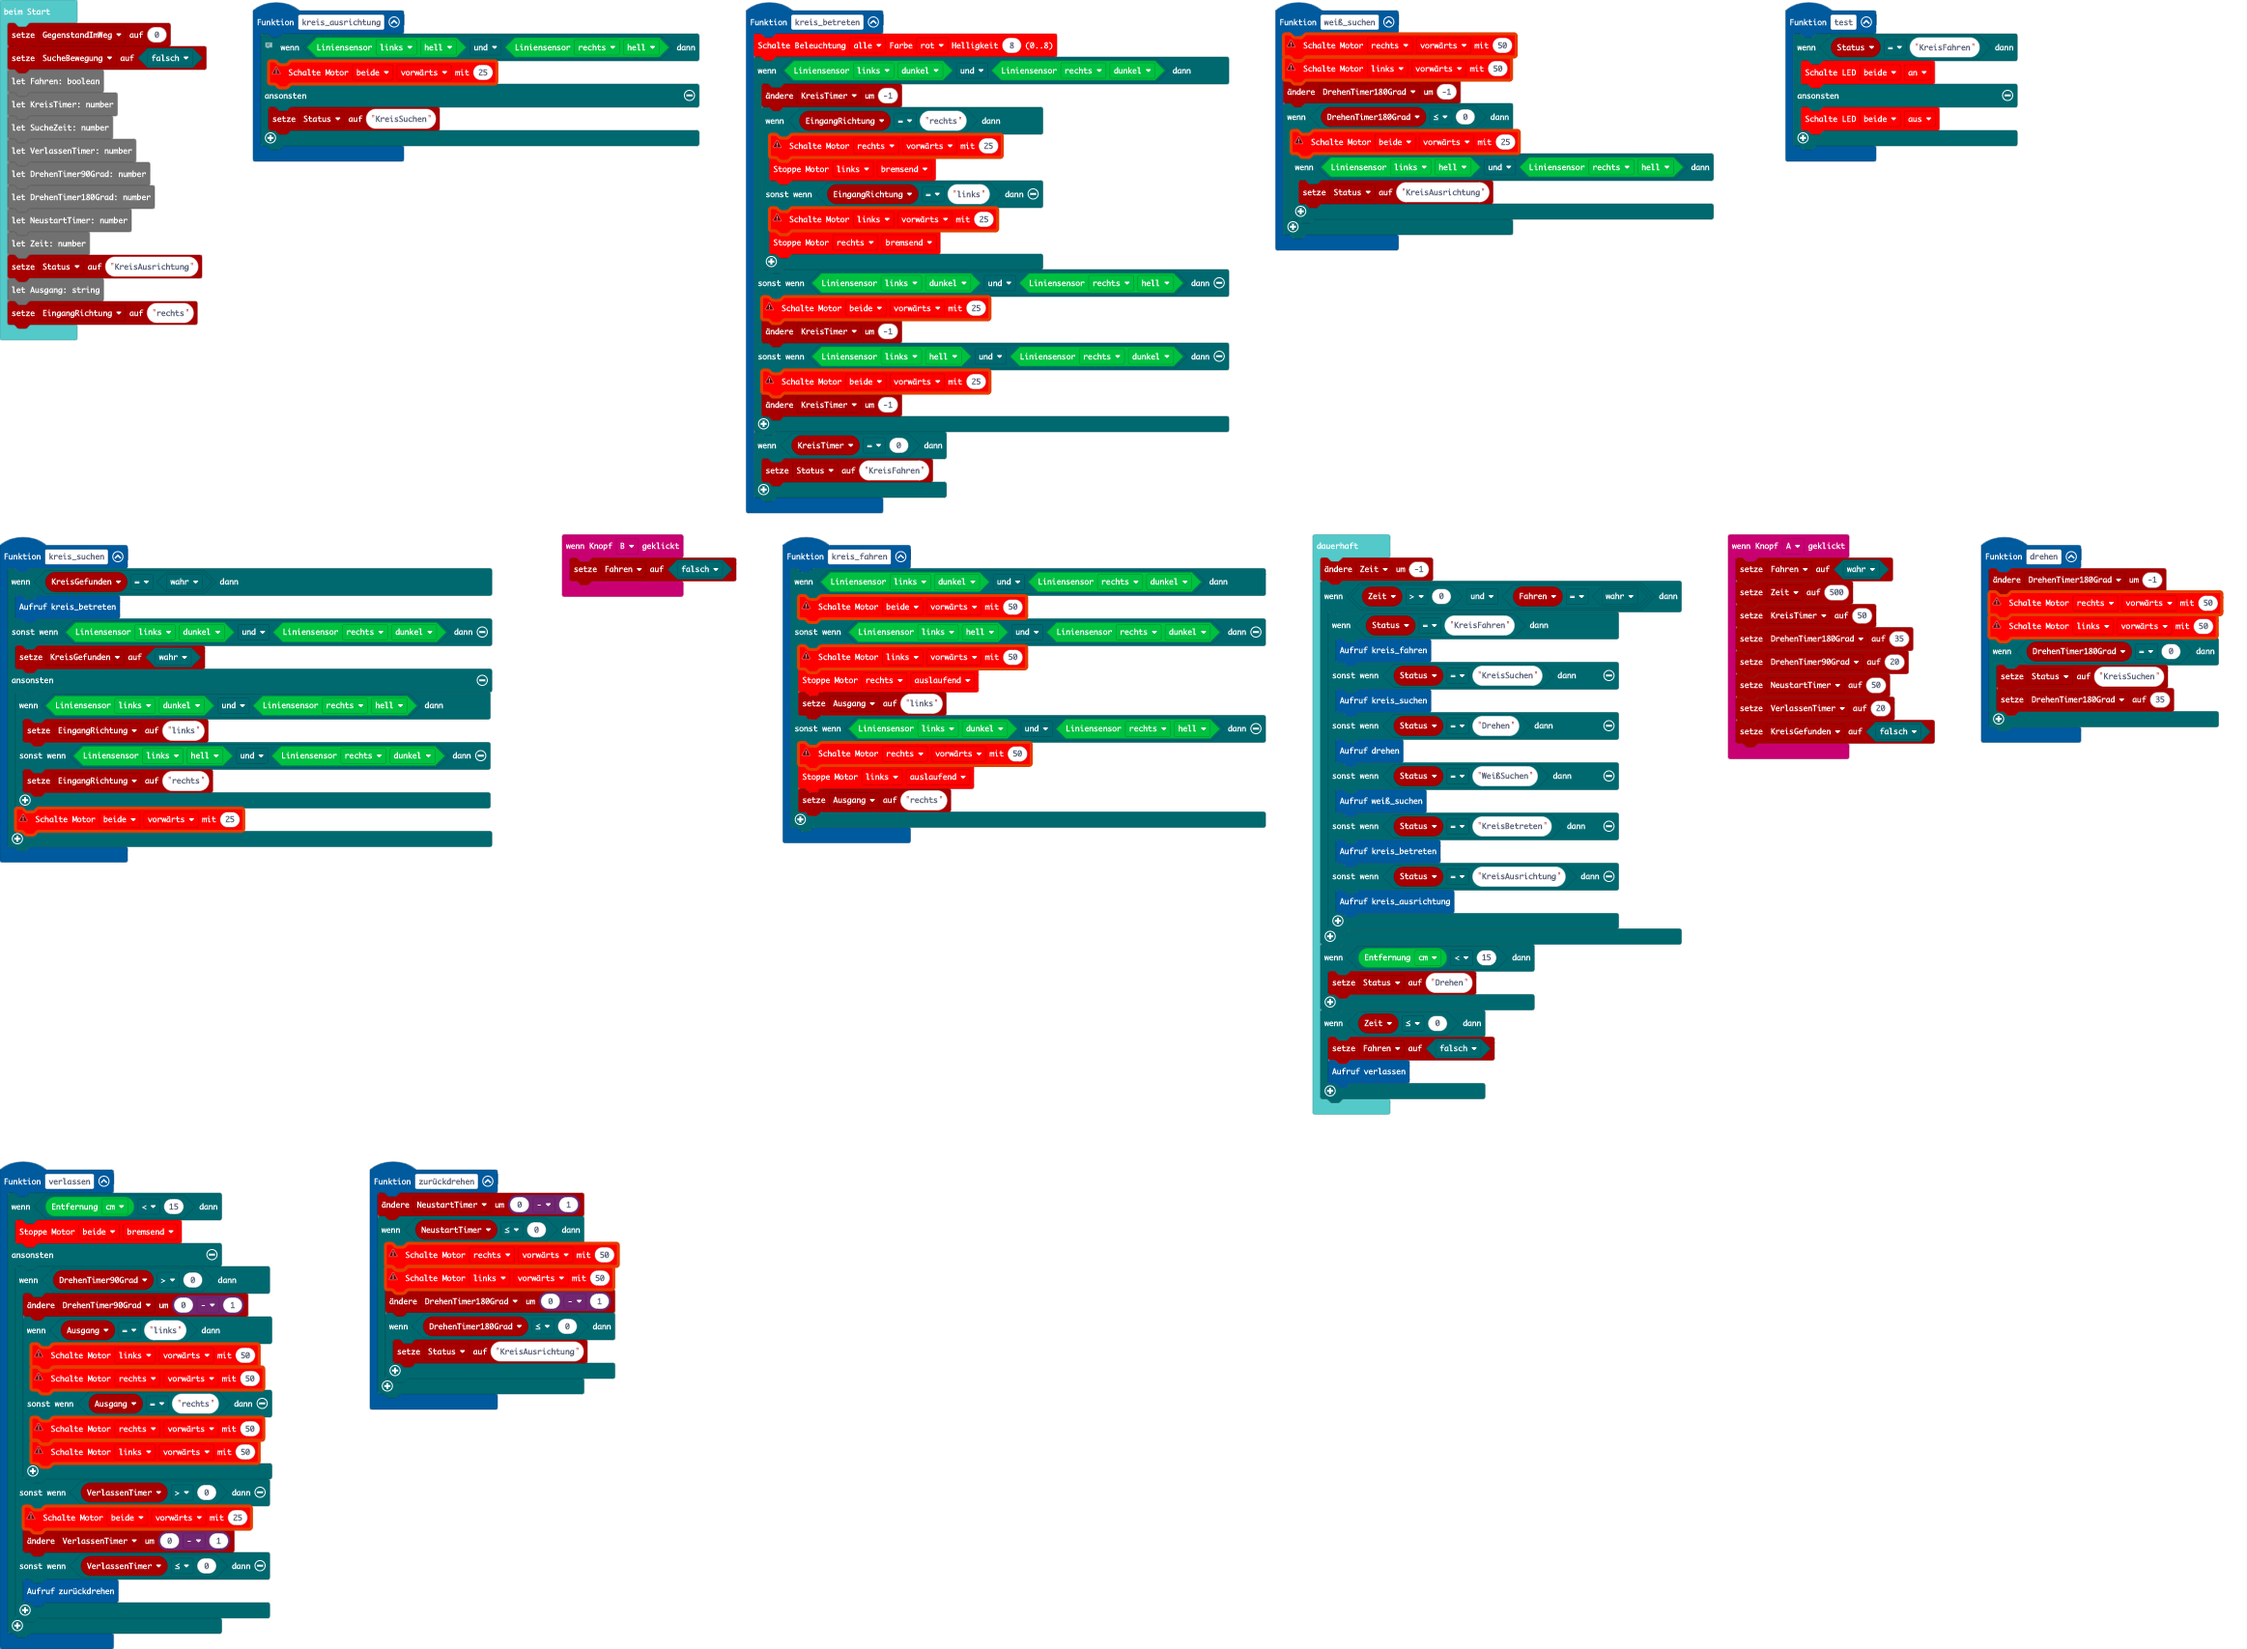
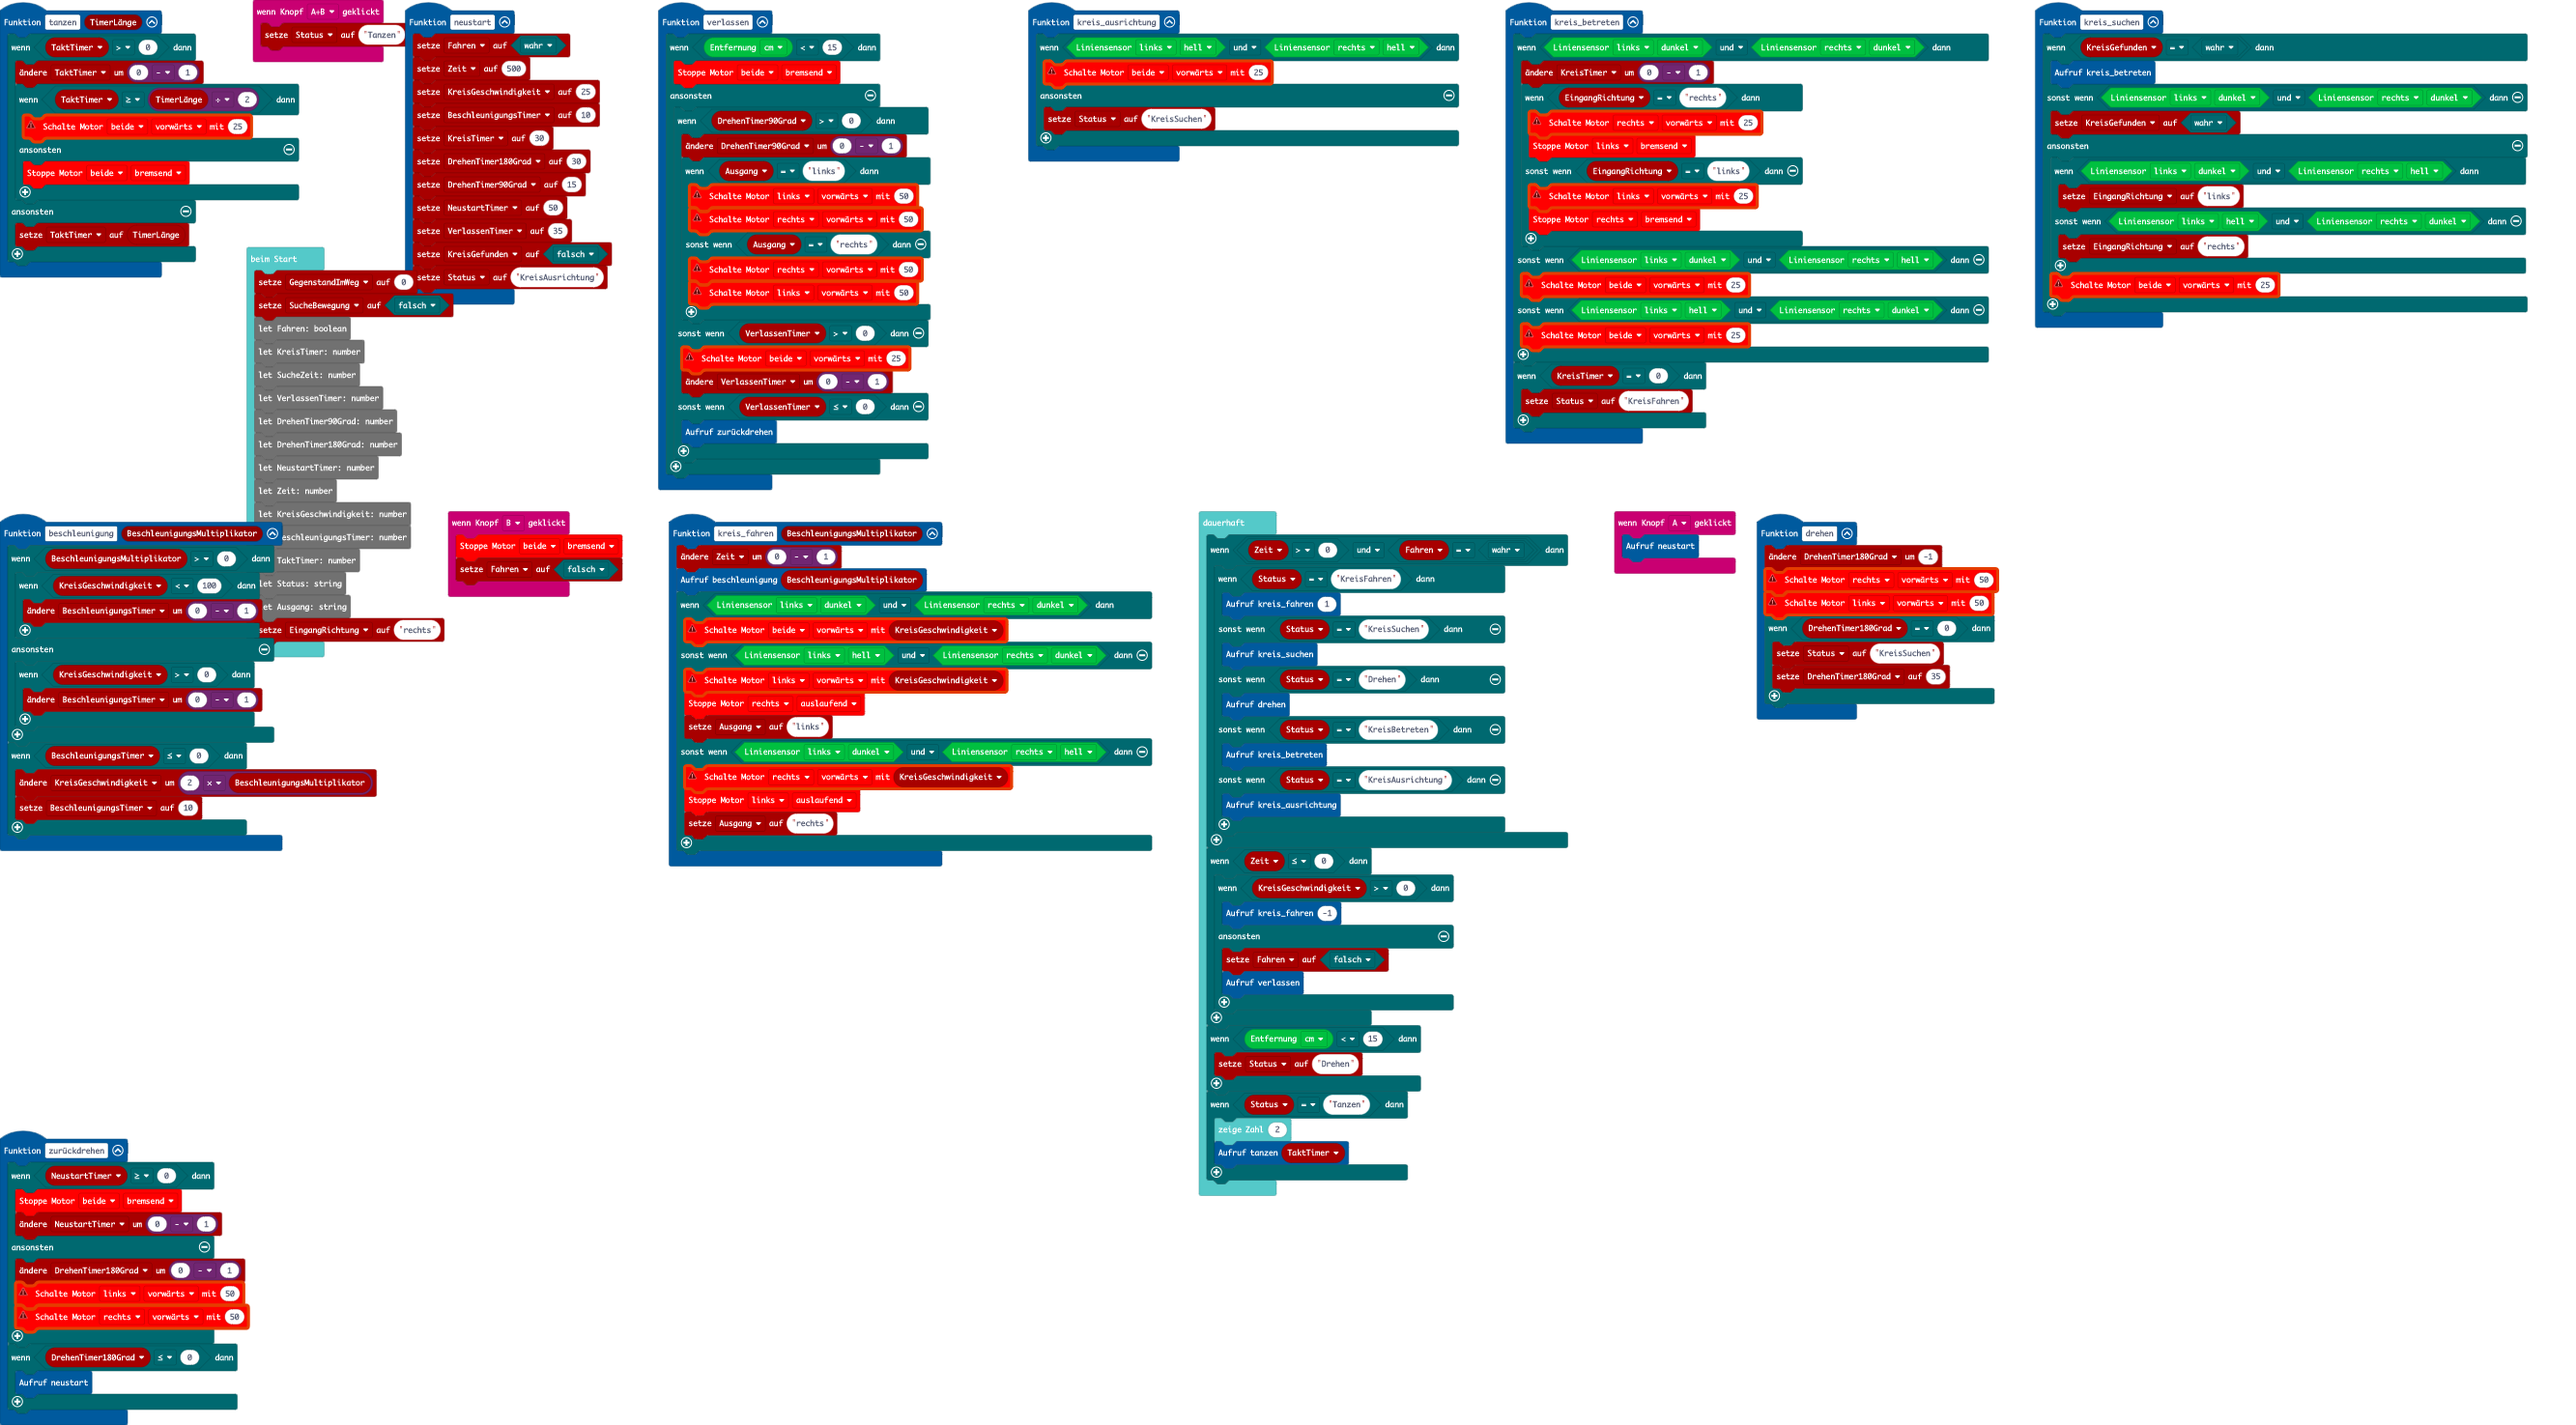
Aktualisiere main.blocks, main.ts

diff --git a/main.ts b/main.ts
@@ -10,6 +10,7 @@ let NeustartTimer: number
 let Zeit: number
 let KreisGeschwindigkeit: number
 let BeschleunigungsTimer: number
+let TaktTimer: number
 let GegenstandImWeg = 0
 let Status: string
 let Ausgang: string
@@ -23,6 +24,25 @@ input.onButtonPressed(Button.B, function () {
     callibot.motorStop(KMotor.beide, KStop.Bremsen)
     Fahren = false
 })
+input.onButtonPressed(Button.AB, function () {
+    Status = "Tanzen"
+})
+function tanzen(TimerLänge: number) {
+    
+    if (TaktTimer > 0) {
+        
+        TaktTimer -= 1
+        if (TaktTimer >= TimerLänge / 2) {
+            callibot.motor(KMotor.beide, KDir.vorwärts, 25)
+        }
+        else {
+            callibot.motorStop(KMotor.beide, KStop.Bremsen)
+        }
+    }
+    else {
+        TaktTimer = TimerLänge
+    }
+}
 function neustart() {
     Fahren = true
     Zeit = 500
@@ -184,5 +204,8 @@ basic.forever(function () {
     if (callibot.entfernung(KEinheit.cm) < 15) {
         Status = "Drehen"
     }
+    if (Status == "Tanzen") {
+        basic.showNumber(2)
+        tanzen(TaktTimer)
+    }
 })
-
